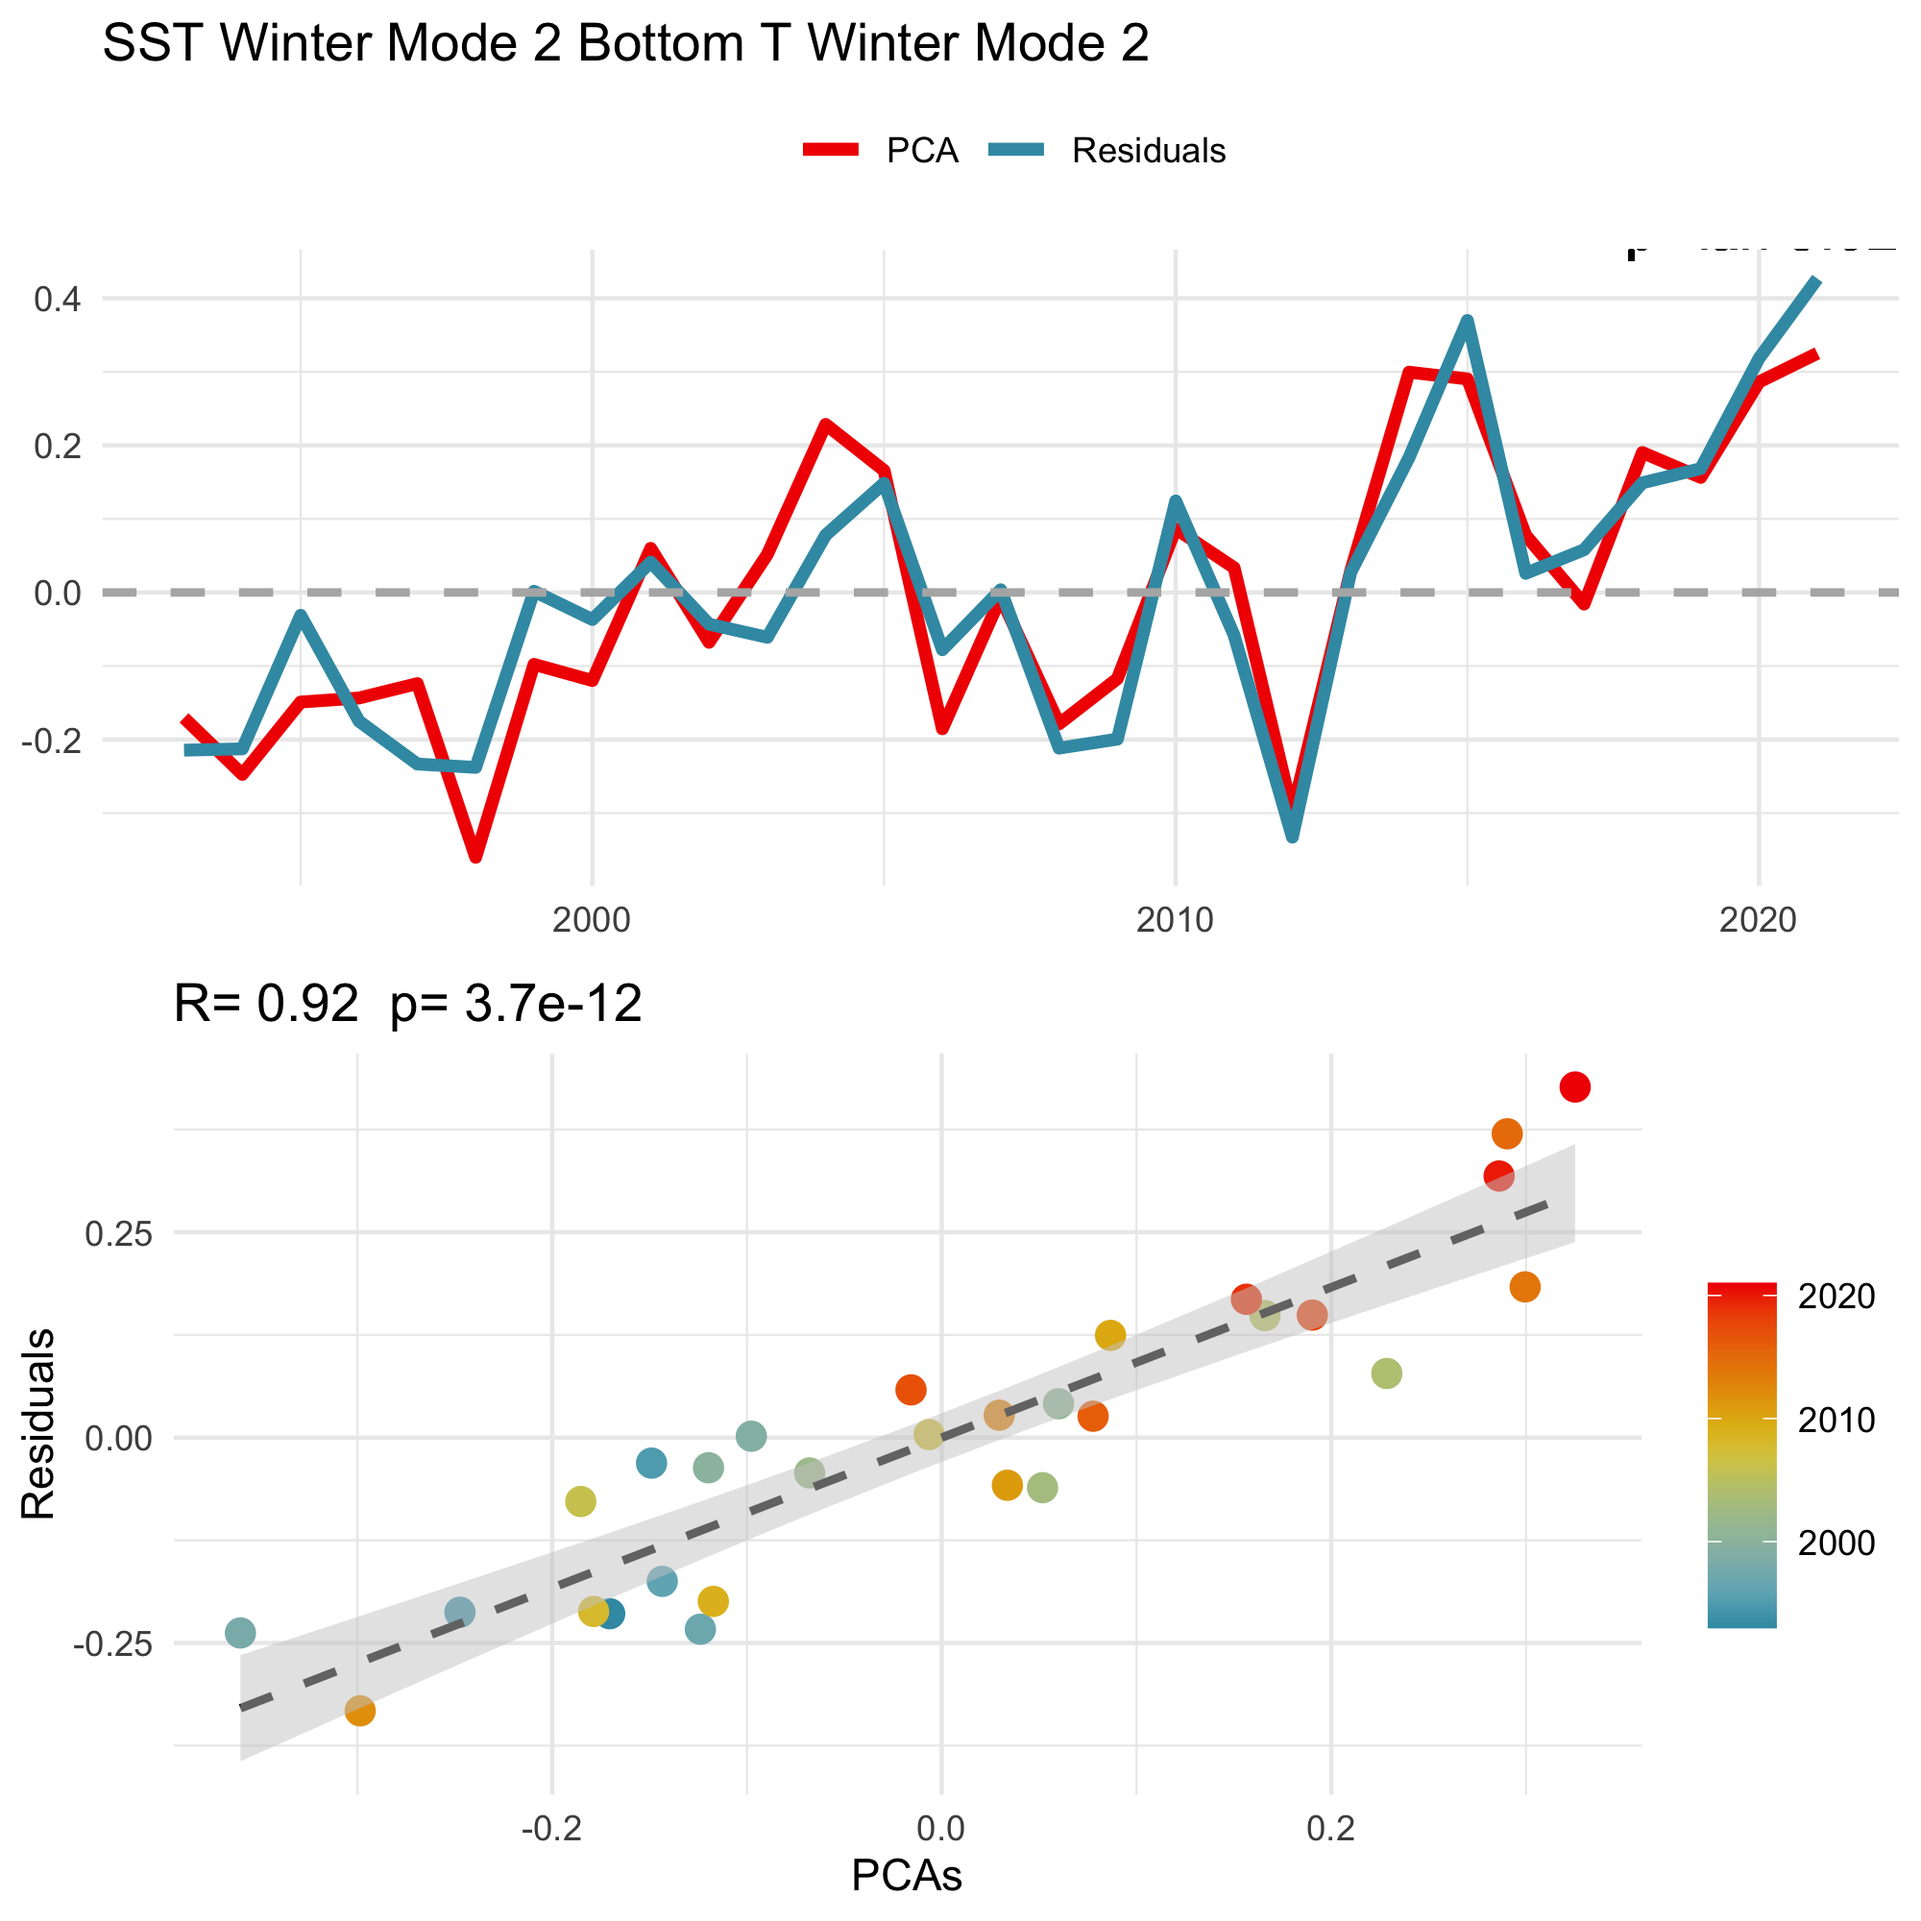
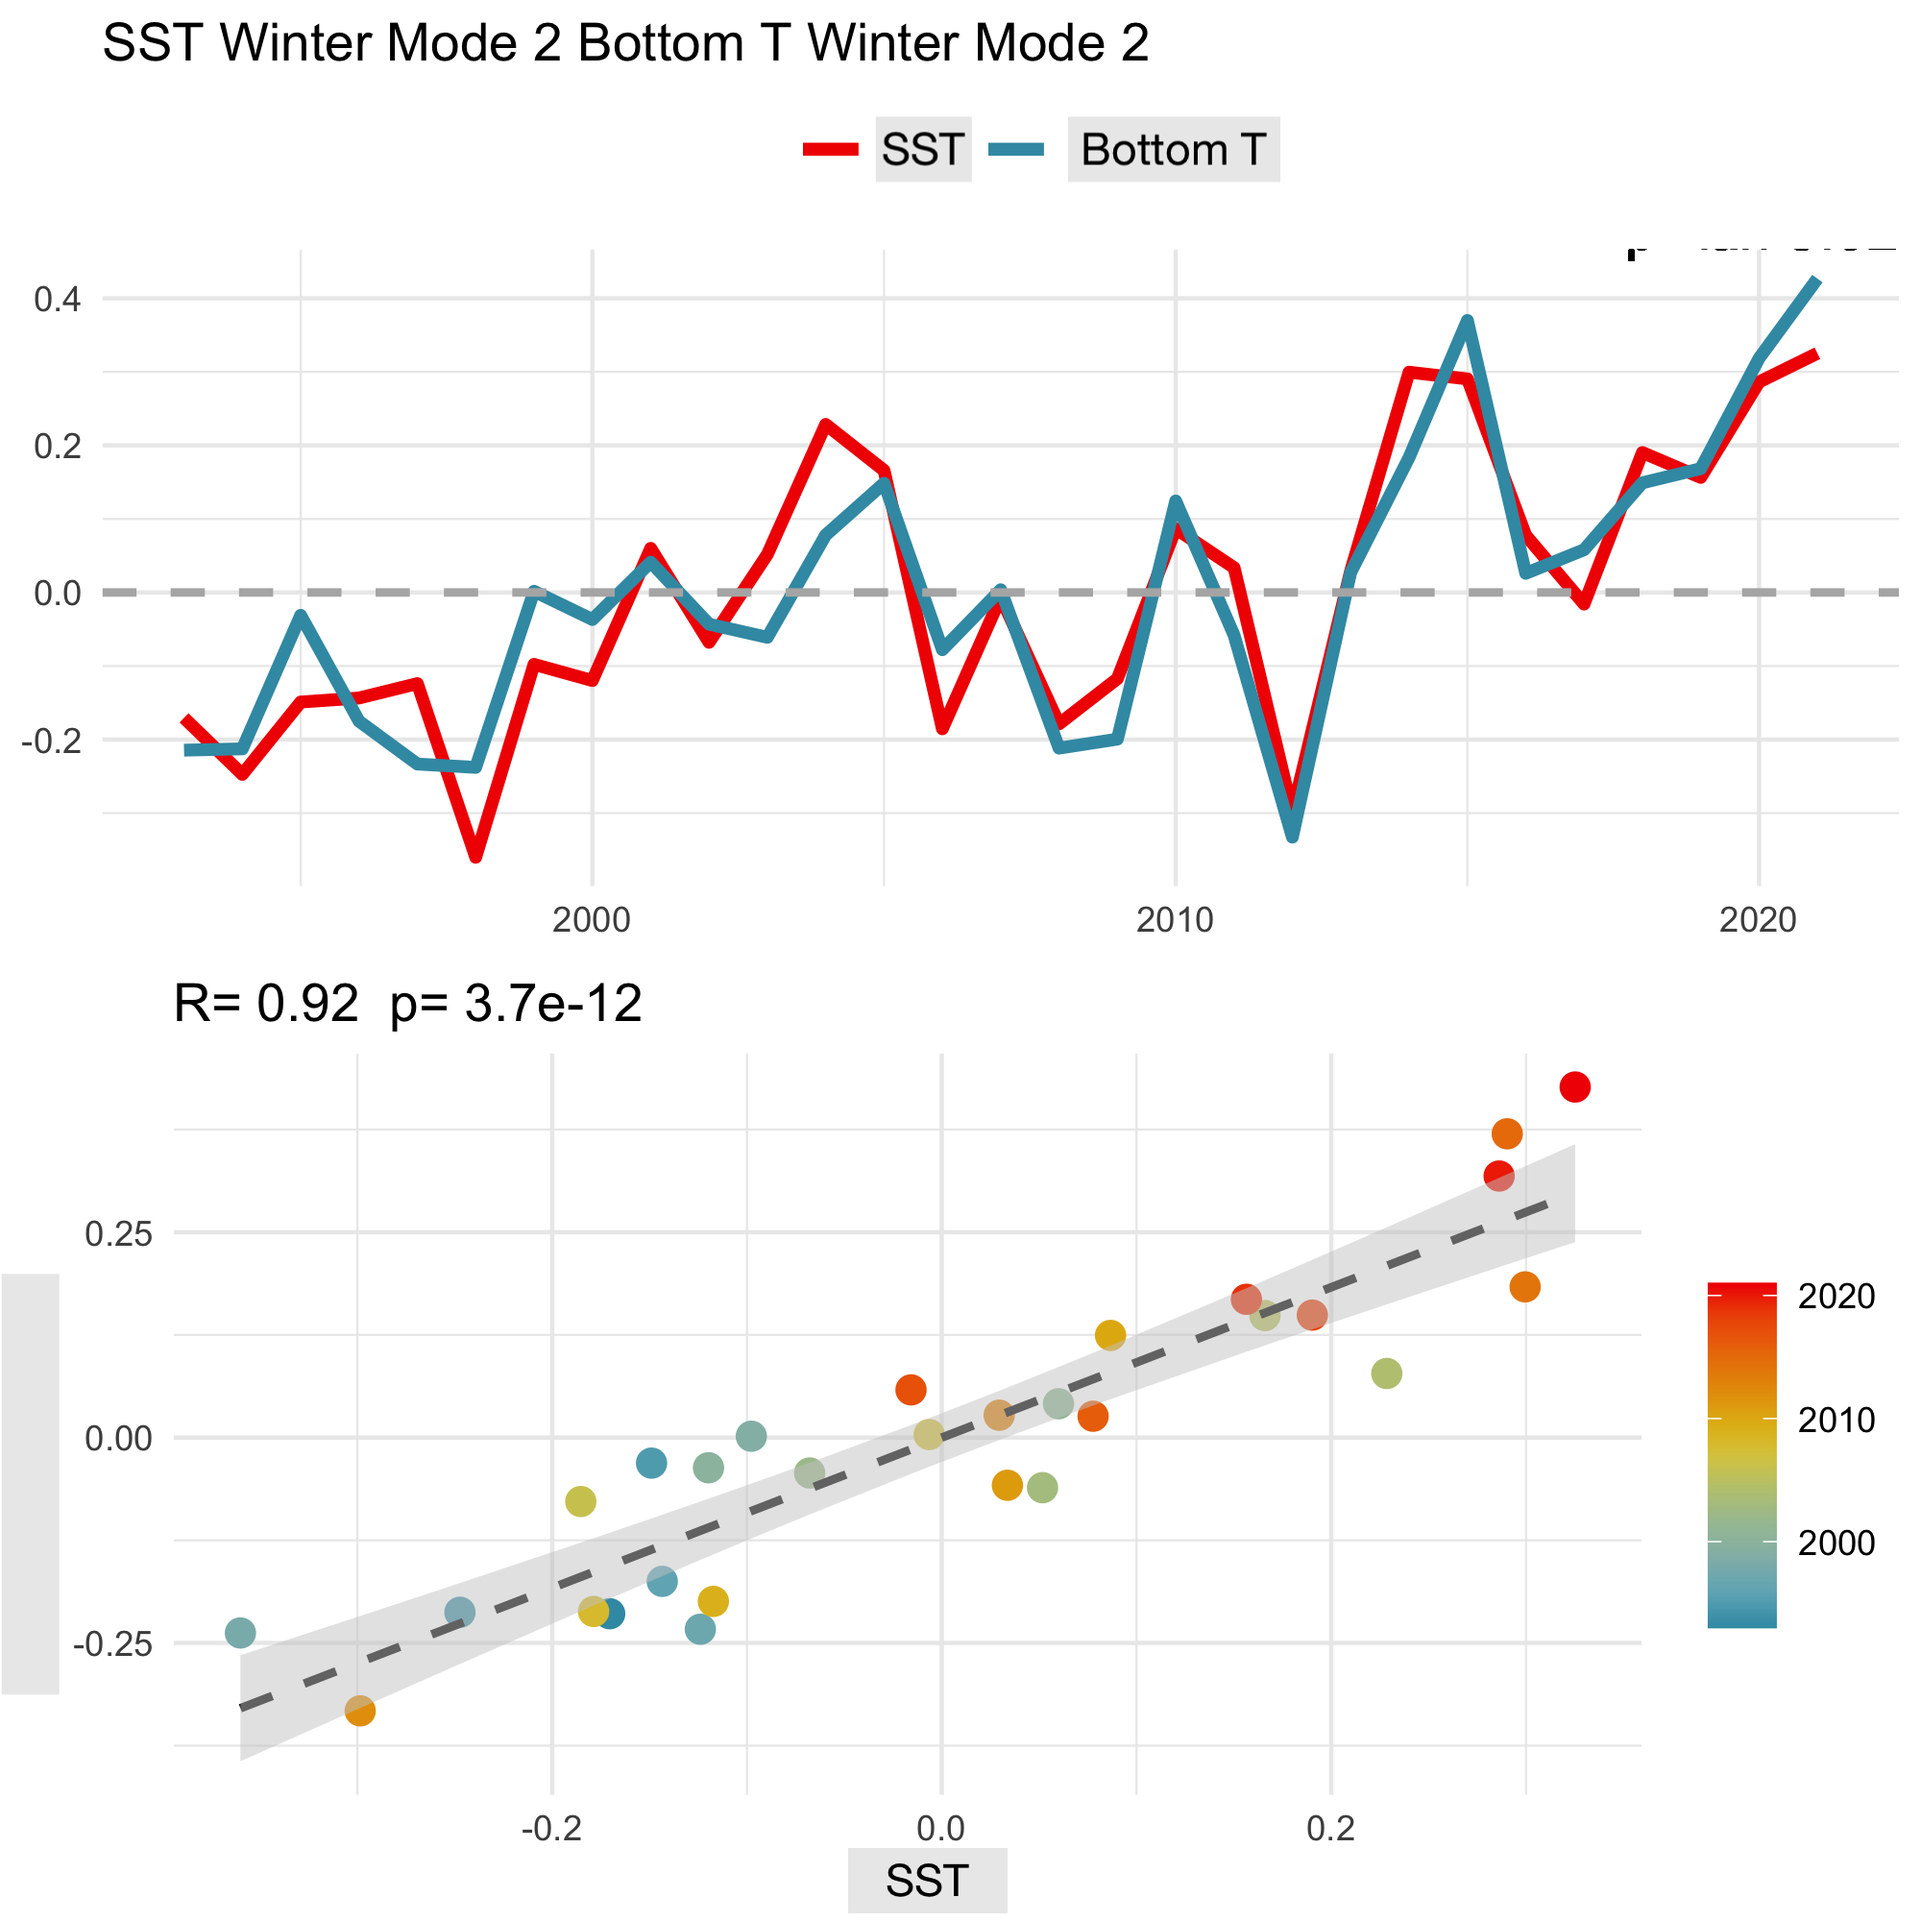
prese5

diff --git a/index.html b/index.html
@@ -488,6 +488,18 @@ Ana Vaz, Kyle Shertzer, Kevin Craig
 </div>
 </div>
 </section>
+<section id="correlation-variables" class="slide level2">
+<h2>Correlation Variables</h2>
+<div class="columns">
+<div class="column" style="width:33%;">
+<p><img data-src="images/Summary/BottomTWinterMode2SSHWinterMode1.png" width="400" height="400"></p>
+</div><div class="column" style="width:33%;">
+<p><img data-src="images/Summary/BottomTWinterMode2SSTWinterMode2.png" width="400" height="400"></p>
+</div><div class="column" style="width:33%;">
+<p><img data-src="images/Summary/SSHWinterMode1SSTWinterMode2.png" width="400" height="400"></p>
+</div>
+</div>
+</section>
 <section id="anomalies" class="slide level2">
 <h2>Anomalies</h2>
 <div class="columns">
